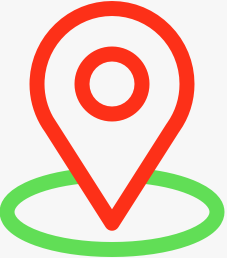
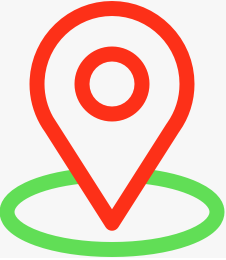
update info-map

diff --git a/src/Notes_Map.jsx b/src/Notes_Map.jsx
@@ -10,11 +10,11 @@ const Notes_Map = ({blackImg, redImg1, redImg2}) => {
             <p>Condo</p>
         </div>
         <div className="info-each-icon">
-            <img src={redImg1} alt="Map Icon1" style={{ width: '30px', height: '30px' }} />
+            <img src={redImg2} alt="Map Icon1" style={{ width: '30px', height: '30px' }} />
             <p>Duplex</p>
         </div>
         <div className="info-each-icon">
-            <img src={redImg2} alt="Map Icon2" style={{ width: '30px', height: '30px' }} />
+            <img src={redImg1} alt="Map Icon2" style={{ width: '30px', height: '30px' }} />
             <p>Triplex</p>
         </div>
     </div>
